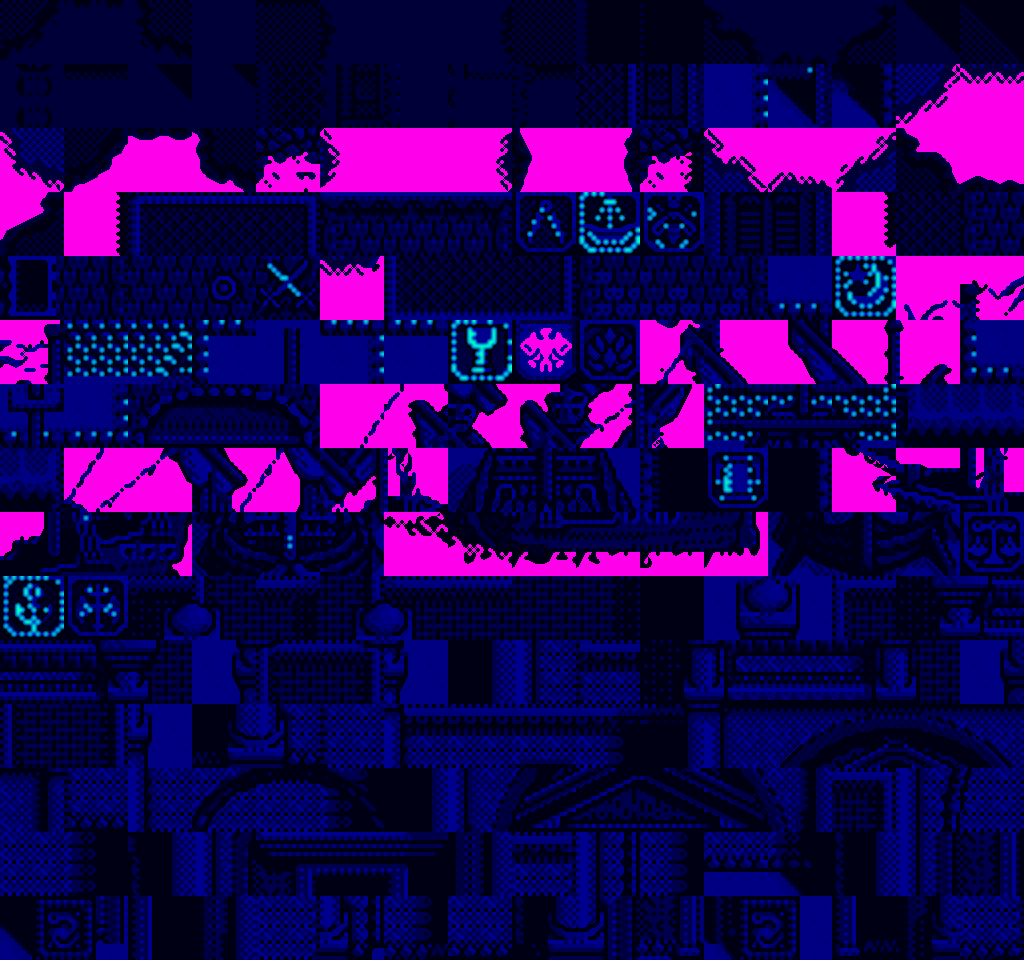
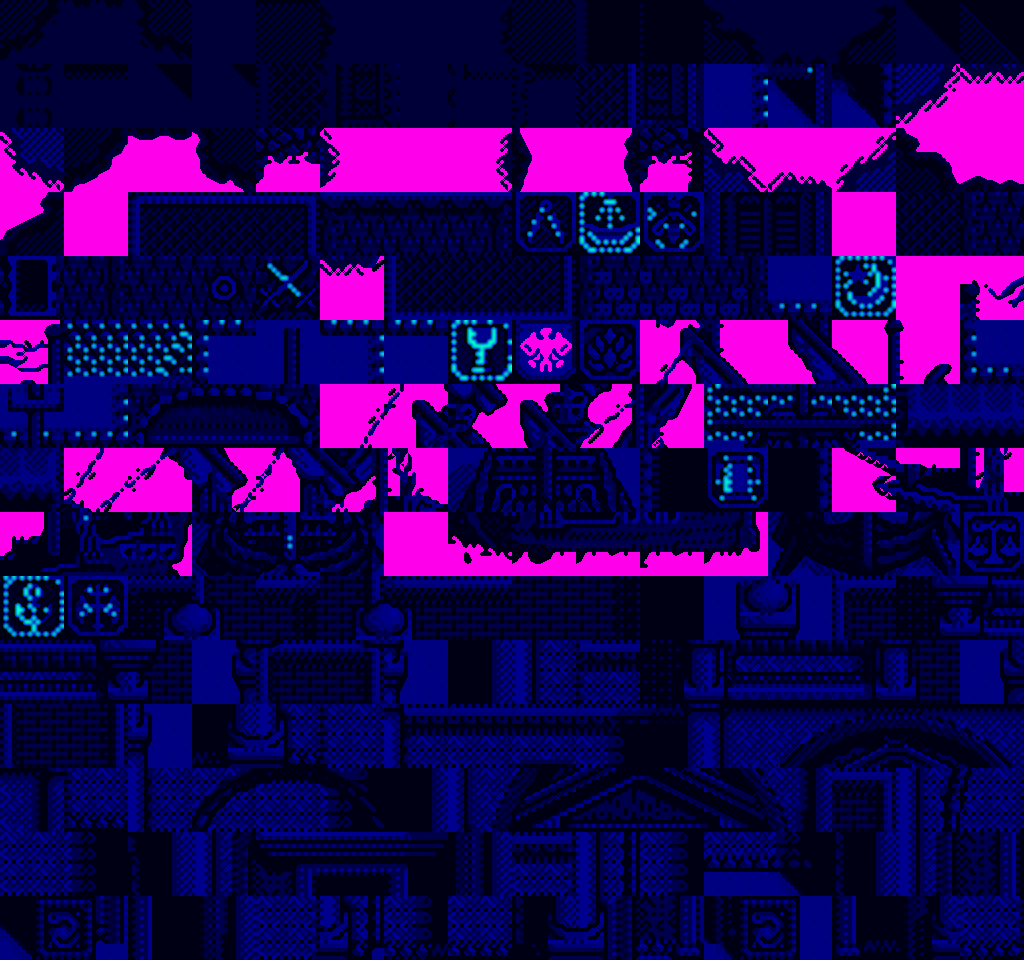
fix(hd2d): eliminate ghost comb shadows, remove pond water-ripple artifacts, clean door colors, and drop 2.5D skew

diff --git a/web/src/renderer/hd2d_gl.ts b/web/src/renderer/hd2d_gl.ts
@@ -272,21 +272,22 @@ void main() {
 
   vec2 texel = 1.0 / uViewSize;
 
-  // 1. 屏幕空间太阳斜向阴影光线步进 (屋顶/石墙/船身投射长影子到广场与海面)
+  // 1. 连续细腻太阳斜向阴影光线步进（20 步高密度小步长 + 屏幕空间交错梯度噪点抖动，彻底消灭锯齿与重影条纹）
   float sunShadow = 1.0;
   if (elev < 0.36 && uOvercastMix < 0.85) {
-    vec2 rayStep = vec2(sunDir.x, sunDir.y) * texel * 5.2;
-    float hitAccum = 0.0;
-    for (int s = 1; s <= 12; s++) {
-      float fs = float(s);
+    float ign = fract(52.9829189 * fract(dot(gl_FragCoord.xy, vec2(0.06711056, 0.00583715))));
+    vec2 rayStep = vec2(sunDir.x, sunDir.y) * texel * 1.45;
+    float maxHit = 0.0;
+    for (int s = 1; s <= 20; s++) {
+      float fs = float(s) - 0.5 + ign * 0.85;
       vec2 suv = clamp(vUV + rayStep * fs, vec2(0.002), vec2(0.998));
       float sh = texture(uNrmTex, suv).a;
-      float needed = elev + fs * 0.052;
-      if (sh > needed && sh > 0.50) {
-        hitAccum += (1.0 - fs / 13.0) * 0.42;
-      }
+      float needed = elev + fs * 0.024;
+      float occ = smoothstep(needed, needed + 0.14, sh);
+      float atten = 1.0 - (fs / 21.0);
+      maxHit = max(maxHit, occ * atten * 0.92);
     }
-    sunShadow = clamp(1.0 - hitAccum * mix(1.0, 0.45, uOvercastMix), 0.24, 1.0);
+    sunShadow = clamp(1.0 - maxHit * mix(1.0, 0.40, uOvercastMix), 0.36, 1.0);
   }
 
   // 2. 接触环境光遮蔽 (Contact AO): 让墙脚、台阶、行道树与码头边缘厚重立体
@@ -676,7 +677,7 @@ export class Hd2dPortRenderer {
     const chAlbTex = this.getImageTex("chAlb", p.charsAlb, true);
     const chNrmTex = this.getImageTex("chNrm", p.charsNrm, true);
 
-    const tiltStrength = 0.14;
+    const tiltStrength = 0.0;
 
     // ---- Pass 1: MRT G-Buffer ----
     gl.bindFramebuffer(gl.FRAMEBUFFER, this.fboGbuf);
@@ -808,7 +809,7 @@ export class Hd2dPortRenderer {
     gl.uniform1i(gl.getUniformLocation(this.progFinal, "uBloomTex"), 1);
     gl.uniform2f(gl.getUniformLocation(this.progFinal, "uViewSize"), p.vw, p.vh);
     gl.uniform1f(gl.getUniformLocation(this.progFinal, "uFade"), p.fade);
-    gl.uniform1f(gl.getUniformLocation(this.progFinal, "uDofStrength"), 0.58);
+    gl.uniform1f(gl.getUniformLocation(this.progFinal, "uDofStrength"), 0.45);
     gl.drawArrays(gl.TRIANGLES, 0, 3);
 
     return this.canvas;

diff --git a/tools/build_hd_textures.py b/tools/build_hd_textures.py
@@ -10,7 +10,7 @@ import math
 import os
 from PIL import Image
 import numpy as np
-from scipy.ndimage import gaussian_filter, label, sobel
+from scipy.ndimage import binary_closing, gaussian_filter, label, sobel
 
 ROOT = os.path.dirname(os.path.dirname(os.path.abspath(__file__)))
 ART_SHEETS = os.path.join(ROOT, "web", "assets", "art", "sheets")
@@ -71,6 +71,11 @@ MODERN_SPRITE_PAL = np.array([
     [240, 228, 210],  # 15: 亮象牙白
 ], dtype=np.float32)
 
+# 建筑专用色盘：将原版暗蓝青阴影 index 13 压成沉稳石青瓦灰，消除木门和灰墙里跳眼的鲜绿点
+MODERN_ARCH_PAL = MODERN_GROUND_PAL.copy()
+MODERN_ARCH_PAL[13] = [44, 72, 74]
+MODERN_ARCH_PAL[14] = [52, 136, 96]
+
 # 仅对“真正纯大面积平铺”的沙地/草坪/水体做棋盘格消噪，保留砖块与木门肌理
 GROUND_DITHER_PAIRS = {
     (10, 11), (11, 10),
@@ -82,13 +87,14 @@ GROUND_DITHER_PAIRS = {
     (8, 7), (7, 8),
 }
 
-# 建筑只去除大块白灰粉墙与天蓬的大片抖动，不抹掉石砖和门条纹
+# 建筑只去除大块白灰粉墙与门扇的阴影点阵，保留石砖与木门框结构
 ARCH_DITHER_PAIRS = {
     (11, 15), (15, 11),
     (11, 7), (7, 11),
     (12, 15), (15, 12),
     (12, 7), (7, 12),
     (13, 14), (14, 13),
+    (10, 13), (13, 10),
     (9, 12), (12, 9),
     (0, 10), (10, 0),
     (0, 13), (13, 0),
@@ -152,12 +158,13 @@ def periodic_noise(sz: int, freqs=(4, 8, 16), seed=42) -> np.ndarray:
     wsum = 0.0
     for idx_f, freq in enumerate(freqs):
         w = 1.0 / (1.0 + idx_f * 0.75)
-        for _ in range(4):
+        n_dir = 10
+        for _ in range(n_dir):
             kx = int(rng.integers(1, freq + 1)) * (1 if rng.random() > 0.5 else -1)
             ky = int(rng.integers(1, freq + 1)) * (1 if rng.random() > 0.5 else -1)
             ph = float(rng.uniform(0, 2.0 * math.pi))
             acc += w * np.sin(kx * xx + ky * yy + ph)
-        wsum += w * 4.0
+        wsum += w * n_dir
     acc /= max(1e-5, wsum)
     m = np.max(np.abs(acc))
     return acc / max(1e-5, m)
@@ -321,10 +328,25 @@ def process_portchip_sheet(set_idx: int, p1: int, p2: int, p3: int, mats):
                 deep_cnt = int(np.sum(comp_m & (tile_idx == 9)))
                 if area >= 14 and deep_cnt >= 6:
                     water_base |= comp_m
-            blue_pad = np.pad(water_base.astype(np.int32), ((1, 1), (1, 1)), mode="edge")
-            blue_sum = sum(blue_pad[dy:dy + tile_sz, dx:dx + tile_sz] for dy in range(3) for dx in range(3))
-            is_water = water_base | (((tile_idx == 0) | (tile_idx == 8)) & (blue_sum >= 5))
 
+            # 检测“纯水上波纹/水面倒影影块” (如 153 号水面倒影黑波，仅有 0/8/9/12 无木/石/砖结构；或 105 号海浪白沫)
+            non_water_solids = np.sum((tile_idx == 10) | (tile_idx == 11) | (tile_idx == 13) | (tile_idx == 14) | (tile_idx == 1) | (tile_idx == 6))
+            pure_water_ripple_tile = (non_water_solids == 0 and int(np.sum(tile_idx == 9)) >= 80) or (
+                int(np.sum(is_blue)) >= 140 and non_water_solids == 0
+            )
+            if pure_water_ripple_tile:
+                is_water = np.ones_like(is_blue, dtype=bool)
+            else:
+                blue_pad = np.pad(water_base.astype(np.int32), ((1, 1), (1, 1)), mode="edge")
+                blue_sum = sum(blue_pad[dy:dy + tile_sz, dx:dx + tile_sz] for dy in range(3) for dx in range(3))
+                # 靠船体水面中孤立的 0/8 水面阴影（若 3x3 内无实体黄木/白帆且邻域多为深水）也转为柔和深水，避免池塘里飘黑杂草
+                solid_hull = (tile_idx == 10) | (tile_idx == 11) | (tile_idx == 15) | (tile_idx == 13) | (tile_idx == 14)
+                hull_pad = np.pad(solid_hull.astype(np.int32), ((1, 1), (1, 1)), mode="edge")
+                hull_near = sum(hull_pad[dy:dy + tile_sz, dx:dx + tile_sz] for dy in range(3) for dx in range(3))
+                is_water = water_base | (((tile_idx == 0) | (tile_idx == 8)) & (blue_sum >= 4) & (hull_near == 0))
+
+            is_tree_tile = (t_id >= p2) and (int(np.sum(tile_idx == 14)) >= 70) and not np.any(is_water)
+            is_shore_tile = (t_id >= p2) and np.any(is_water) and (int(np.sum((tile_idx == 13) | (tile_idx == 14))) >= 18)
             sem[is_water] = 1
             if t_id < p2:
                 is_grass = (tile_idx == 13) | (tile_idx == 14)
@@ -333,20 +355,25 @@ def process_portchip_sheet(set_idx: int, p1: int, p2: int, p3: int, mats):
                 sem[is_grass] = 3
             else:
                 if np.any(is_water):
+                    sem[((tile_idx == 13) | (tile_idx == 14)) & ~is_water] = 3
                     blk_pad = np.pad((tile_idx == 0).astype(np.int32), ((1, 1), (1, 1)), mode="edge")
                     blk_near = sum(blk_pad[dy:dy + tile_sz, dx:dx + tile_sz] for dy in range(3) for dx in range(3))
-                    sem[((tile_idx == 13) | (tile_idx == 14)) & (blk_near == 0)] = 3
                     sem[((tile_idx == 10) | (tile_idx == 11)) & (blk_near == 0) & ~is_water] = 2
-                elif int(np.sum(tile_idx == 14)) >= 70:
+                elif is_tree_tile:
                     blk_pad = np.pad((tile_idx == 0).astype(np.int32), ((1, 1), (1, 1)), mode="edge")
                     blk_near = sum(blk_pad[dy:dy + tile_sz, dx:dx + tile_sz] for dy in range(3) for dx in range(3))
                     sem[(tile_idx == 14) & (blk_near == 0)] = 3
             sem[tile_idx == 0] = 0
             sem[is_water] = 1
 
-            # 1) Albedo: 地面平铺做彻底去抖动 + 石板/草丛质感；建筑保持锐利结构质感，拒绝模糊！
-            pairs = GROUND_DITHER_PAIRS if is_walk else ARCH_DITHER_PAIRS
-            base_16 = dedither_tile_rgb(tile_idx, MODERN_GROUND_PAL, pairs, is_water=is_water, wrap_edges=(t_id < p1))
+            # 1) Albedo: 地面、海岸草坡与树格使用草地色盘，其余实体建筑使用建筑色盘（含压沉的门扇阴影 13）
+            pairs = GROUND_DITHER_PAIRS if (is_walk or is_shore_tile) else ARCH_DITHER_PAIRS
+            tile_pal = MODERN_GROUND_PAL if (is_walk or is_tree_tile or is_shore_tile) else MODERN_ARCH_PAL
+            base_16 = dedither_tile_rgb(tile_idx, tile_pal, pairs, is_water=is_water, wrap_edges=(t_id < p1))
+            if pure_water_ripple_tile:
+                # 153 等水上影波纹格：只保留柔和深暗水波层次，不生成刺眼黑刺团块
+                dark_ripple = (tile_idx == 0) | (tile_idx == 8)
+                base_16[dark_ripple] = MODERN_GROUND_PAL[9] * 0.72 + np.array([4.0, 12.0, 28.0], dtype=np.float32)
             if t_id < p2 or np.any(is_water):
                 smooth_16 = base_16.copy()
                 for m_val, alpha, sig in ((1, 0.88, 0.95), (2, 0.85, 0.85), (3, 0.78, 0.78)):
@@ -414,16 +441,18 @@ def process_portchip_sheet(set_idx: int, p1: int, p2: int, p3: int, mats):
             )
             micro_height = gaussian_filter(micro_height, sigma=0.75, mode="nearest")
 
-            # 物理高程：地上行走层 (~0.02)，水岸边低矮石栏 (~0.35)，实心建筑/树冠/帆船 (~0.75..0.95)
-            if t_id < p1:
+            # 物理高程：地上行走层 (~0.00)，纯水波纹 (~0.00)，半阻挡石栏 (~0.32)，实心建筑/树冠/船体 (~0.82)
+            # 对实心建筑做 3x3 闭运算填平砖缝微小孔洞，保证投射出的建筑影子浑然一体不碎裂
+            if t_id < p1 or pure_water_ripple_tile:
                 tile_elev = np.zeros_like(micro_height)
             elif t_id < p2:
-                # 半阻挡缘边：仅实体结构部分有中等高度
-                tile_elev = np.where((sem64 == 4) | (sem64 == 0), 0.38, 0.02)
+                solid_m = binary_closing((sem64 == 4) | (sem64 == 0), structure=np.ones((5, 5), dtype=bool))
+                tile_elev = gaussian_filter(np.where(solid_m & (sem64 != 1), 0.34, 0.0).astype(np.float32), sigma=1.4, mode="nearest")
             else:
-                # 高大建筑、帆船、堤岸墙体与树冠
-                base_e = np.where(sem64 == 1, 0.0, np.where((sem64 == 2) | (sem64 == 3), 0.04, 0.85))
-                tile_elev = gaussian_filter(base_e.astype(np.float32), sigma=1.2, mode="nearest")
+                caster_raw = (sem64 == 4) | (sem64 == 0)
+                solid_m = binary_closing(caster_raw, structure=np.ones((7, 7), dtype=bool)) & (sem64 != 1)
+                base_e = np.where(solid_m, 0.85, 0.0)
+                tile_elev = gaussian_filter(base_e.astype(np.float32), sigma=1.6, mode="nearest")
 
             nrm_tile = height_to_normal_rgba(micro_height, tile_elev, strength=3.4)
 
